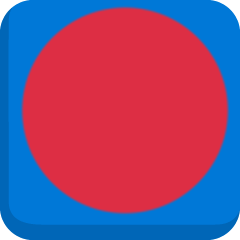
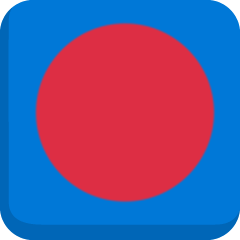
修复extraBall效果，新小球从砖块位置生成

Changed region(s): [[0.0875, 0.0, 0.9625, 0.9042]]

diff --git a/specialbrick.js b/specialbrick.js
@@ -123,8 +123,8 @@ function brickEffect(brick, c, r, brickArray, brickColumnCount, brickRowCount, g
             var angle = (Math.random() * 120 - 60) * Math.PI / 180; // 随机角度在-60到60度之间
             var speed = Math.sqrt(gameState.dx * gameState.dx + gameState.dy * gameState.dy);
             gameState.extraBalls.push({
-                x: gameState.x,
-                y: gameState.y,
+                x: brick.x + brickWidth/2,
+                y: brick.y + brickHeight/2,
                 dx: speed * Math.sin(angle),
                 dy: - speed * Math.abs(Math.cos(angle)),
                 radius: 10,

diff --git a/draw.js b/draw.js
@@ -162,12 +162,12 @@ function drawScore(ctx, score) //绘制分数
     {
         ctx.font = "16px Arial";
         ctx.fillStyle = "#0095DD";
-        ctx.fillText("Score: "+score, 80, 20);
+        ctx.fillText("Score: "+score, 0, 20);
     }
 
 function drawLives(ctx, lives) //绘制生命值
     {
         ctx.font = "16px Arial";
         ctx.fillStyle = "#0095DD";
-        ctx.fillText("Lives: "+lives, canvas.width-65, 20);
+        ctx.fillText("Lives: "+lives, canvas.width-92, 20);
     }
